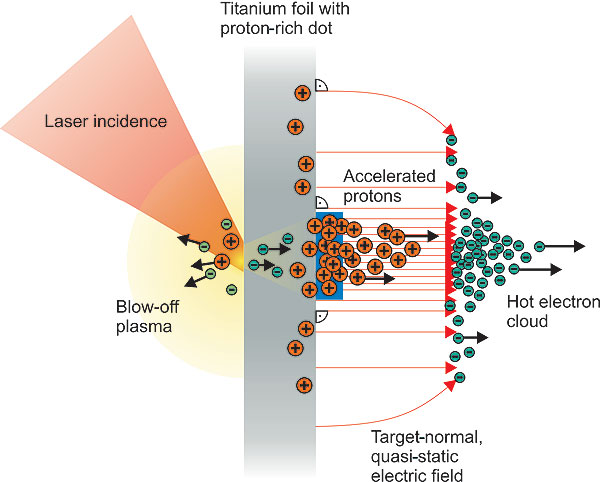
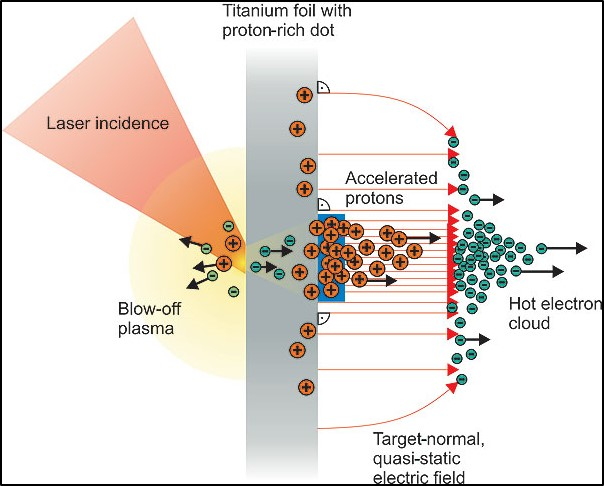
content update

diff --git a/index.html b/index.html
@@ -199,7 +199,8 @@
             <section class="wow fadeInDown" data-wow-delay="0.5s">
                 <h4>Laser/EM wave  interaction with magnetized plasma</h4>
                 <p align= 'justify'>
-                  
+                    Recent technological advancements in laser systems have significantly improved various aspects of laser technology, including the power of petawatt (PW) (also there are proposals for exawatt (EW) power using chirped pulse amplification (CPA) technique), repetition rate, pulse width (a single laser shot can deliver energy of kJ orders in f s timescale), and operational frequency. Laser-plasma interaction is a rapidly growing field of research with significant implications for numerous scientific and diagnostic applications such as the generation of GeV electrons, 100 M eV protons, gamma- ray and X-ray sources, etc. The interaction between a high-intensity laser beam and plasma can result in a variety of complex phenomena, including the generation of high-energy particles, novel radiation source, magnetic field generation and transport. It also holds the potential to aid in laser fusion. <br>
+                    Magnetized plasma opens up the prospects of a new regime in which the electron gyro-frequency can be higher than the laser frequency. In this scenario, one can directly transfer the laser energy to ions. The application of a strong magnetic field also enables low-frequency electromagnetic waves to interact with the bulk overdense plasma through the various permitted passbands of the magnetized dispersion relation. Thus, the laser interaction with magnetized plasma opens the possibility of investigating fundamental aspects of bulk plasma studies. This also provides a wide range of applications for understanding space plasma observations generating collision-less shocks, gamma ray generation, THz generation, magnetic re-connection, fusion studies in strongly magnetized plasma, mechanisms for novel ion acceleration, etc.
                 </p>
              </section>
             </div>
@@ -230,7 +231,7 @@
             </div>
             <div class="col-md-6">
                 <section class="wow fadeInDown" data-wow-delay="0.5s">
-                    <img class="img-responsive" src="./images/dustyplasma.png" alt="">
+                    <img class="img-responsive" src="./images/tnsa.jpg" alt="">
                 </section>
             </div>
         </div>
